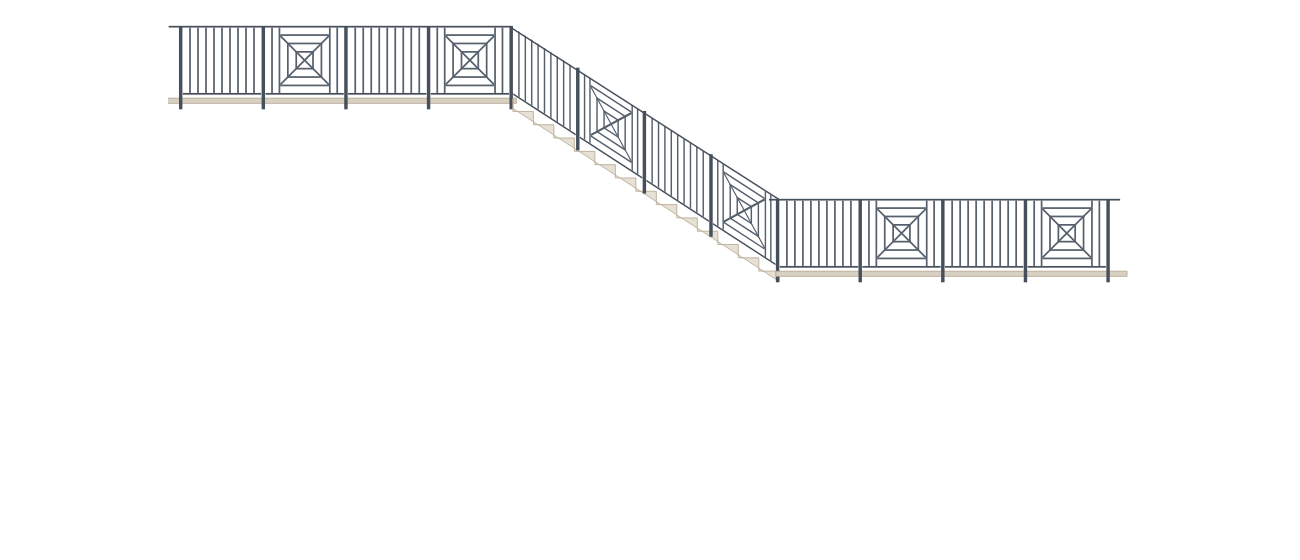
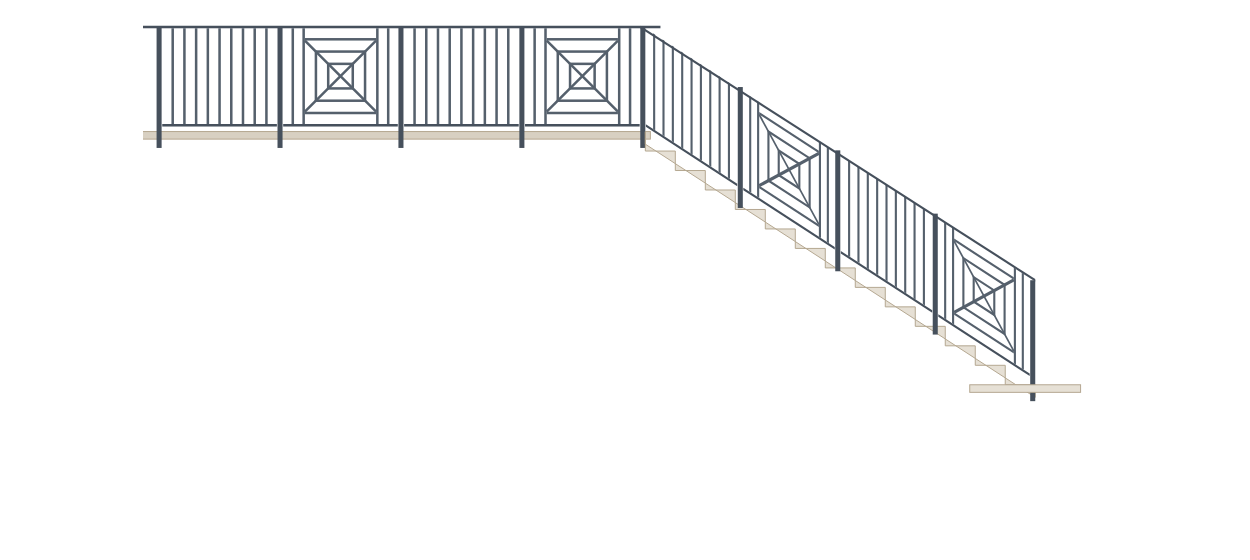
Vistas escalera: muere en el piso (sin tramo abajo) + version solo dibujos sin piques
Claude-Session: https://claude.ai/code/session_011Xm5msSMRk1LgWY9yKL9Lu

Changed region(s): [[0.1248, 0.0304, 0.8736, 0.7286]]

diff --git a/proposals/jrg-welding-corp/railing-vista-solo-dibujos.html b/proposals/jrg-welding-corp/railing-vista-solo-dibujos.html
@@ -6,15 +6,14 @@
 <rect x="-20.8" y="109.2" width="530.4" height="7.8" fill="#d8d0c2" stroke="#b3a58e" stroke-width="1"/>
 <rect x="0.0" y="1.3" width="5.2" height="124.8" fill="#46505c" />
 <g transform="translate(5.2,0)"><rect x="0.65" y="101.4" width="118.3" height="2.6" fill="#46505c" />
-<rect x="10.14" y="2.6" width="2.6" height="98.8" fill="#55606c" />
-<rect x="22.23" y="2.6" width="2.6" height="98.8" fill="#55606c" />
-<rect x="34.32" y="2.6" width="2.6" height="98.8" fill="#55606c" />
-<rect x="46.41" y="2.6" width="2.6" height="98.8" fill="#55606c" />
-<rect x="58.5" y="2.6" width="2.6" height="98.8" fill="#55606c" />
-<rect x="70.59" y="2.6" width="2.6" height="98.8" fill="#55606c" />
-<rect x="82.68" y="2.6" width="2.6" height="98.8" fill="#55606c" />
-<rect x="94.77" y="2.6" width="2.6" height="98.8" fill="#55606c" />
-<rect x="106.86" y="2.6" width="2.6" height="98.8" fill="#55606c" /></g>
+<rect x="20.48" y="2.6" width="2.6" height="98.8" fill="#55606c" />
+<rect x="96.53" y="2.6" width="2.6" height="98.8" fill="#55606c" />
+<rect x="23.07" y="12.68" width="73.45" height="2.6" fill="#55606c" />
+<rect x="23.07" y="88.73" width="73.45" height="2.6" fill="#55606c" />
+<line x1="23.07" y1="15.28" x2="96.53" y2="88.73" stroke="#55606c" stroke-width="2.6" stroke-linecap="butt"/>
+<line x1="23.07" y1="88.73" x2="96.53" y2="15.28" stroke="#55606c" stroke-width="2.6" stroke-linecap="butt"/>
+<rect x="34.45" y="26.65" width="50.7" height="50.7" fill="none" stroke="#55606c" stroke-width="2.6"/>
+<rect x="47.12" y="39.33" width="25.35" height="25.35" fill="none" stroke="#55606c" stroke-width="2.6"/></g>
 <rect x="124.8" y="1.3" width="5.2" height="124.8" fill="#46505c" />
 <g transform="translate(130.0,0)"><rect x="0.65" y="101.4" width="118.3" height="2.6" fill="#46505c" />
 <rect x="20.48" y="2.6" width="2.6" height="98.8" fill="#55606c" />
@@ -24,20 +23,17 @@
 <line x1="23.07" y1="15.28" x2="96.53" y2="88.73" stroke="#55606c" stroke-width="2.6" stroke-linecap="butt"/>
 <line x1="23.07" y1="88.73" x2="96.53" y2="15.28" stroke="#55606c" stroke-width="2.6" stroke-linecap="butt"/>
 <rect x="34.45" y="26.65" width="50.7" height="50.7" fill="none" stroke="#55606c" stroke-width="2.6"/>
-<rect x="47.12" y="39.33" width="25.35" height="25.35" fill="none" stroke="#55606c" stroke-width="2.6"/>
-<rect x="9.26" y="2.6" width="2.6" height="98.8" fill="#55606c" />
-<rect x="107.74" y="2.6" width="2.6" height="98.8" fill="#55606c" /></g>
+<rect x="47.12" y="39.33" width="25.35" height="25.35" fill="none" stroke="#55606c" stroke-width="2.6"/></g>
 <rect x="249.6" y="1.3" width="5.2" height="124.8" fill="#46505c" />
 <g transform="translate(254.8,0)"><rect x="0.65" y="101.4" width="118.3" height="2.6" fill="#46505c" />
-<rect x="10.14" y="2.6" width="2.6" height="98.8" fill="#55606c" />
-<rect x="22.23" y="2.6" width="2.6" height="98.8" fill="#55606c" />
-<rect x="34.32" y="2.6" width="2.6" height="98.8" fill="#55606c" />
-<rect x="46.41" y="2.6" width="2.6" height="98.8" fill="#55606c" />
-<rect x="58.5" y="2.6" width="2.6" height="98.8" fill="#55606c" />
-<rect x="70.59" y="2.6" width="2.6" height="98.8" fill="#55606c" />
-<rect x="82.68" y="2.6" width="2.6" height="98.8" fill="#55606c" />
-<rect x="94.77" y="2.6" width="2.6" height="98.8" fill="#55606c" />
-<rect x="106.86" y="2.6" width="2.6" height="98.8" fill="#55606c" /></g>
+<rect x="20.48" y="2.6" width="2.6" height="98.8" fill="#55606c" />
+<rect x="96.53" y="2.6" width="2.6" height="98.8" fill="#55606c" />
+<rect x="23.07" y="12.68" width="73.45" height="2.6" fill="#55606c" />
+<rect x="23.07" y="88.73" width="73.45" height="2.6" fill="#55606c" />
+<line x1="23.07" y1="15.28" x2="96.53" y2="88.73" stroke="#55606c" stroke-width="2.6" stroke-linecap="butt"/>
+<line x1="23.07" y1="88.73" x2="96.53" y2="15.28" stroke="#55606c" stroke-width="2.6" stroke-linecap="butt"/>
+<rect x="34.45" y="26.65" width="50.7" height="50.7" fill="none" stroke="#55606c" stroke-width="2.6"/>
+<rect x="47.12" y="39.33" width="25.35" height="25.35" fill="none" stroke="#55606c" stroke-width="2.6"/></g>
 <rect x="374.4" y="1.3" width="5.2" height="124.8" fill="#46505c" />
 <g transform="translate(379.6,0)"><rect x="0.65" y="101.4" width="118.3" height="2.6" fill="#46505c" />
 <rect x="20.48" y="2.6" width="2.6" height="98.8" fill="#55606c" />
@@ -47,22 +43,19 @@
 <line x1="23.07" y1="15.28" x2="96.53" y2="88.73" stroke="#55606c" stroke-width="2.6" stroke-linecap="butt"/>
 <line x1="23.07" y1="88.73" x2="96.53" y2="15.28" stroke="#55606c" stroke-width="2.6" stroke-linecap="butt"/>
 <rect x="34.45" y="26.65" width="50.7" height="50.7" fill="none" stroke="#55606c" stroke-width="2.6"/>
-<rect x="47.12" y="39.33" width="25.35" height="25.35" fill="none" stroke="#55606c" stroke-width="2.6"/>
-<rect x="9.26" y="2.6" width="2.6" height="98.8" fill="#55606c" />
-<rect x="107.74" y="2.6" width="2.6" height="98.8" fill="#55606c" /></g>
+<rect x="47.12" y="39.33" width="25.35" height="25.35" fill="none" stroke="#55606c" stroke-width="2.6"/></g>
 <rect x="499.2" y="1.3" width="5.2" height="124.8" fill="#46505c" />
 <rect x="-15.6" y="0.0" width="535.6" height="2.6" fill="#46505c" />
 <polygon points="504.4,109.2 504.4,129.3 535.35,129.3 535.35,149.4 566.31,149.4 566.31,169.5 597.26,169.5 597.26,189.61 628.21,189.61 628.21,209.71 659.17,209.71 659.17,229.81 690.12,229.81 690.12,249.91 721.07,249.91 721.07,270.01 752.03,270.01 752.03,290.11 782.98,290.11 782.98,310.21 813.93,310.21 813.93,330.32 844.89,330.32 844.89,350.42 875.84,350.42 875.84,370.52 906.8,370.52 906.8,383.52 504.4,122.2" fill="#e6e0d5" stroke="#b3a58e" stroke-width="1"/>
 <g transform="matrix(0.8387,0.5446,0,1,504.4,0.0)"><rect x="0.65" y="101.4" width="112.45" height="2.6" fill="#46505c" />
-<rect x="9.55" y="2.6" width="2.6" height="98.8" fill="#55606c" />
-<rect x="21.06" y="2.6" width="2.6" height="98.8" fill="#55606c" />
-<rect x="32.56" y="2.6" width="2.6" height="98.8" fill="#55606c" />
-<rect x="44.07" y="2.6" width="2.6" height="98.8" fill="#55606c" />
-<rect x="55.58" y="2.6" width="2.6" height="98.8" fill="#55606c" />
-<rect x="67.08" y="2.6" width="2.6" height="98.8" fill="#55606c" />
-<rect x="78.59" y="2.6" width="2.6" height="98.8" fill="#55606c" />
-<rect x="90.09" y="2.6" width="2.6" height="98.8" fill="#55606c" />
-<rect x="101.59" y="2.6" width="2.6" height="98.8" fill="#55606c" /></g>
+<rect x="17.55" y="2.6" width="2.6" height="98.8" fill="#55606c" />
+<rect x="93.6" y="2.6" width="2.6" height="98.8" fill="#55606c" />
+<rect x="20.15" y="12.68" width="73.45" height="2.6" fill="#55606c" />
+<rect x="20.15" y="88.73" width="73.45" height="2.6" fill="#55606c" />
+<line x1="20.15" y1="15.28" x2="93.6" y2="88.73" stroke="#55606c" stroke-width="2.6" stroke-linecap="butt"/>
+<line x1="20.15" y1="88.73" x2="93.6" y2="15.28" stroke="#55606c" stroke-width="2.6" stroke-linecap="butt"/>
+<rect x="31.53" y="26.65" width="50.7" height="50.7" fill="none" stroke="#55606c" stroke-width="2.6"/>
+<rect x="44.2" y="39.33" width="25.35" height="25.35" fill="none" stroke="#55606c" stroke-width="2.6"/></g>
 <g transform="matrix(0.8387,0.5446,0,1,605.0,65.33)"><rect x="0.65" y="101.4" width="112.45" height="2.6" fill="#46505c" />
 <rect x="17.55" y="2.6" width="2.6" height="98.8" fill="#55606c" />
 <rect x="93.6" y="2.6" width="2.6" height="98.8" fill="#55606c" />
@@ -71,20 +64,17 @@
 <line x1="20.15" y1="15.28" x2="93.6" y2="88.73" stroke="#55606c" stroke-width="2.6" stroke-linecap="butt"/>
 <line x1="20.15" y1="88.73" x2="93.6" y2="15.28" stroke="#55606c" stroke-width="2.6" stroke-linecap="butt"/>
 <rect x="31.53" y="26.65" width="50.7" height="50.7" fill="none" stroke="#55606c" stroke-width="2.6"/>
-<rect x="44.2" y="39.33" width="25.35" height="25.35" fill="none" stroke="#55606c" stroke-width="2.6"/>
-<rect x="7.8" y="2.6" width="2.6" height="98.8" fill="#55606c" />
-<rect x="103.35" y="2.6" width="2.6" height="98.8" fill="#55606c" /></g>
+<rect x="44.2" y="39.33" width="25.35" height="25.35" fill="none" stroke="#55606c" stroke-width="2.6"/></g>
 <rect x="599.8" y="63.25" width="5.2" height="124.8" fill="#46505c" />
 <g transform="matrix(0.8387,0.5446,0,1,705.6,130.66)"><rect x="0.65" y="101.4" width="112.45" height="2.6" fill="#46505c" />
-<rect x="9.55" y="2.6" width="2.6" height="98.8" fill="#55606c" />
-<rect x="21.06" y="2.6" width="2.6" height="98.8" fill="#55606c" />
-<rect x="32.56" y="2.6" width="2.6" height="98.8" fill="#55606c" />
-<rect x="44.07" y="2.6" width="2.6" height="98.8" fill="#55606c" />
-<rect x="55.58" y="2.6" width="2.6" height="98.8" fill="#55606c" />
-<rect x="67.08" y="2.6" width="2.6" height="98.8" fill="#55606c" />
-<rect x="78.59" y="2.6" width="2.6" height="98.8" fill="#55606c" />
-<rect x="90.09" y="2.6" width="2.6" height="98.8" fill="#55606c" />
-<rect x="101.59" y="2.6" width="2.6" height="98.8" fill="#55606c" /></g>
+<rect x="17.55" y="2.6" width="2.6" height="98.8" fill="#55606c" />
+<rect x="93.6" y="2.6" width="2.6" height="98.8" fill="#55606c" />
+<rect x="20.15" y="12.68" width="73.45" height="2.6" fill="#55606c" />
+<rect x="20.15" y="88.73" width="73.45" height="2.6" fill="#55606c" />
+<line x1="20.15" y1="15.28" x2="93.6" y2="88.73" stroke="#55606c" stroke-width="2.6" stroke-linecap="butt"/>
+<line x1="20.15" y1="88.73" x2="93.6" y2="15.28" stroke="#55606c" stroke-width="2.6" stroke-linecap="butt"/>
+<rect x="31.53" y="26.65" width="50.7" height="50.7" fill="none" stroke="#55606c" stroke-width="2.6"/>
+<rect x="44.2" y="39.33" width="25.35" height="25.35" fill="none" stroke="#55606c" stroke-width="2.6"/></g>
 <rect x="700.4" y="128.58" width="5.2" height="124.8" fill="#46505c" />
 <g transform="matrix(0.8387,0.5446,0,1,806.2,195.99)"><rect x="0.65" y="101.4" width="112.45" height="2.6" fill="#46505c" />
 <rect x="17.55" y="2.6" width="2.6" height="98.8" fill="#55606c" />
@@ -94,9 +84,7 @@
 <line x1="20.15" y1="15.28" x2="93.6" y2="88.73" stroke="#55606c" stroke-width="2.6" stroke-linecap="butt"/>
 <line x1="20.15" y1="88.73" x2="93.6" y2="15.28" stroke="#55606c" stroke-width="2.6" stroke-linecap="butt"/>
 <rect x="31.53" y="26.65" width="50.7" height="50.7" fill="none" stroke="#55606c" stroke-width="2.6"/>
-<rect x="44.2" y="39.33" width="25.35" height="25.35" fill="none" stroke="#55606c" stroke-width="2.6"/>
-<rect x="7.8" y="2.6" width="2.6" height="98.8" fill="#55606c" />
-<rect x="103.35" y="2.6" width="2.6" height="98.8" fill="#55606c" /></g>
+<rect x="44.2" y="39.33" width="25.35" height="25.35" fill="none" stroke="#55606c" stroke-width="2.6"/></g>
 <rect x="801.0" y="193.91" width="5.2" height="124.8" fill="#46505c" />
 <polygon points="499.2,0 906.8,261.32 906.8,263.92 499.2,2.6" fill="#46505c"/>
 <rect x="901.6" y="262.62" width="5.2" height="124.8" fill="#46505c" />
